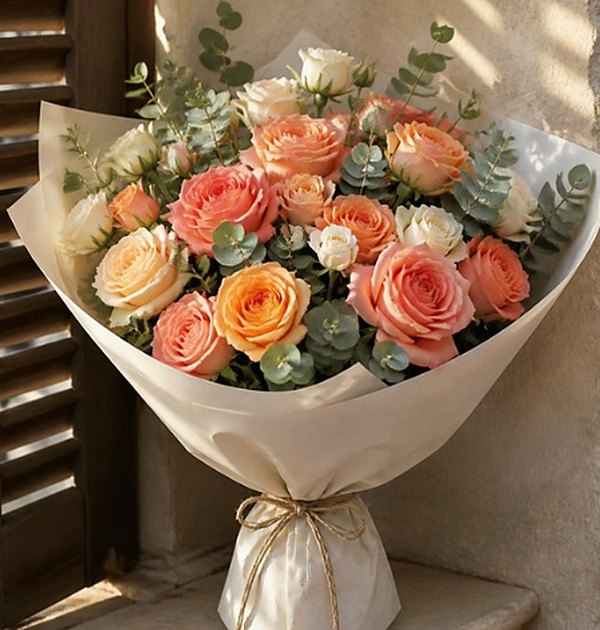
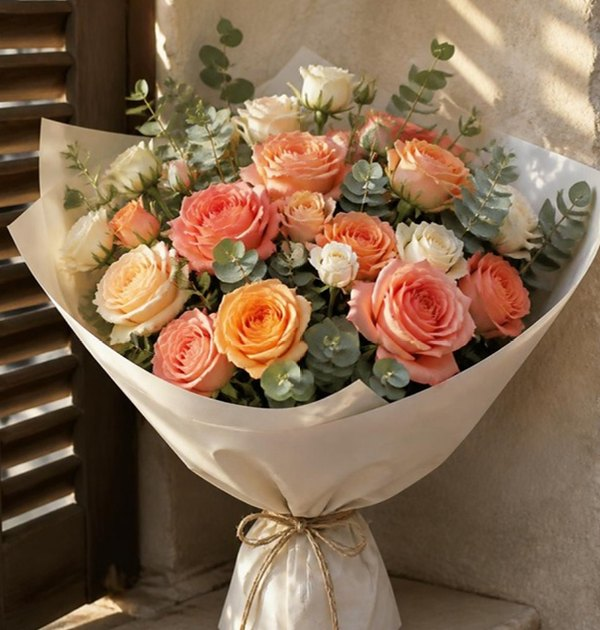
Match every bouquet description to its photo, add three bouquets, sharpen rose photos
- Rewrote flower lists and descriptions that named flowers the photos don't show
- New bouquets: red anemones, gerberas, purple and white lisianthus
- Rose photos re-captured from Canva at about twice the resolution

Claude-Session: https://claude.ai/code/session_01L5cV2KtWtTUE8kPUsoUM2V

diff --git a/assets/js/data.js b/assets/js/data.js
@@ -71,7 +71,7 @@ window.PRODUCTS = [
   {
     id: 'peach', featured: true,
     name: 'אפרסק וחמאה',
-    flowers: 'נוריות אפרסק ושמנת, ורדים לבנים וגיפסנית',
+    flowers: 'נוריות באפרסק, בשמנת ובוורוד, וגיפסנית',
     desc: 'זר עגול ורך בגווני אפרסק ושמנת, קשור ביד בחוט פשתן. מתאים כמעט לכל הזדמנות.',
     img: 'assets/img/card1.jpg',
     occasions: ['love', 'birthday', 'thanks'], colors: ['pastel', 'warm'],
@@ -80,7 +80,7 @@ window.PRODUCTS = [
   {
     id: 'shabbat', featured: true,
     name: 'לבן של שבת',
-    flowers: 'ליזיאנטוס, ורדים לבנים והורטנזיה ירוקה',
+    flowers: 'ליזיאנטוס לבן, ורדים לבנים, הורטנזיה ירוקה ומתיולה לבנה',
     desc: 'סידור לבן וירוק באגרטל זכוכית, מוכן לשולחן השבת.',
     img: 'assets/img/card2.jpg',
     occasions: ['shabbat', 'thanks'], colors: ['white'],
@@ -98,8 +98,8 @@ window.PRODUCTS = [
   {
     id: 'roses-white',
     name: 'ורדים לבנים',
-    flowers: 'ורדי גן לבנים ושנהב, אקליפטוס וירק',
-    desc: 'ורדי גן לבנים ומלאים עם אקליפטוס, עטופים בנייר שנהב. נקי, אלגנטי ומתאים כמעט לכל רגע.',
+    flowers: 'ורדי גן לבנים ושנהב, ציפורנים לבנות ואקליפטוס',
+    desc: 'ורדי גן לבנים ומלאים עם כמה ציפורנים לבנות ואקליפטוס, עטופים בנייר שנהב. נקי, אלגנטי ומתאים כמעט לכל רגע.',
     img: 'assets/img/roses-white.jpg',
     occasions: ['love', 'thanks', 'wedding', 'shabbat'], colors: ['white'],
     prices: [230, 290, 370]
@@ -123,9 +123,36 @@ window.PRODUCTS = [
     prices: [220, 280, 350]
   },
   {
+    id: 'anemones',
+    name: 'כלניות אדומות',
+    flowers: 'כלניות אדומות, אקליפטוס וירק',
+    desc: 'כלניות אדומות עם לב שחור, הפרח של החורף בארץ, עם אקליפטוס וירק עדין, עטופות בנייר שנהב.',
+    img: 'assets/img/anemones.jpg',
+    occasions: ['love', 'thanks', 'birthday'], colors: ['red'],
+    prices: [190, 240, 310]
+  },
+  {
+    id: 'gerberas',
+    name: 'גרברות שמחות',
+    flowers: 'גרברות בכתום, בצהוב, בוורוד עז ובאלמוג, וירק',
+    desc: 'זר עגול ומלא גרברות בצבעים חמים ושמחים, עם ענפי ירק. מתאים במיוחד ליום הולדת או להחלמה.',
+    img: 'assets/img/gerberas.jpg',
+    occasions: ['birthday', 'thanks'], colors: ['warm'],
+    prices: [170, 220, 290]
+  },
+  {
+    id: 'lisianthus',
+    name: 'ליזיאנטוס בסגול ולבן',
+    flowers: 'ליזיאנטוס בסגול, בלילך ובלבן, וירק',
+    desc: 'זר שופע של ליזיאנטוס בשלושה גוונים, סגול עמוק, לילך ולבן, עם ניצנים וירק. עדין ומרשים יחד.',
+    img: 'assets/img/lisianthus.jpg',
+    occasions: ['love', 'thanks', 'shabbat'], colors: ['pastel', 'white'],
+    prices: [200, 260, 330]
+  },
+  {
     id: 'morning', featured: true,
     name: 'שמש של בוקר',
-    flowers: 'נוריות כתומות, צבעונים צהובים וורדי אלמוג',
+    flowers: 'נוריות כתומות, צבעונים צהובים, ורדים בכתום ובאפרסק וזהבית',
     desc: 'זר שמח בגוונים חמים, בדיוק בשביל יום הולדת או בוקר שצריך קצת צבע.',
     img: 'assets/img/card4.jpg',
     occasions: ['birthday', 'thanks'], colors: ['warm'],
@@ -143,8 +170,8 @@ window.PRODUCTS = [
   {
     id: 'harvest', featured: true,
     name: 'בציר',
-    flowers: 'דליות בורדו, ורדים כהים ועלי גפן',
-    desc: 'זר בגווני יין עמוקים, עם עלי גפן. כמו זכרון יעקב בסוף הקיץ.',
+    flowers: 'דליות בורדו, ורדים כהים, סקביוזה ועלווה בגוון יין',
+    desc: 'זר בגווני יין עמוקים, עם עלווה כהה בגוון בורדו. כמו זכרון יעקב בעונת הבציר.',
     img: 'assets/img/card6.jpg',
     occasions: ['love', 'birthday'], colors: ['red'],
     prices: [240, 300, 370]
@@ -152,7 +179,7 @@ window.PRODUCTS = [
   {
     id: 'welcome', featured: true,
     name: 'ברוכים הבאים',
-    flowers: 'אפונה ריחנית, נוריות ורודות ושעוונית',
+    flowers: 'נוריות ורודות ולבנות, אפונה ריחנית, שעוונית ועלי כסף',
     desc: 'זר עדין בוורוד ובלבן, לברך את ההורים הטריים ואת מי שרק הגיע לעולם.',
     img: 'assets/img/card8.jpg',
     occasions: ['baby'], colors: ['pastel'],
@@ -162,7 +189,7 @@ window.PRODUCTS = [
     id: 'orchid', featured: true,
     name: 'סחלב לבן',
     flowers: 'סחלב פלנופסיס בעציץ קרמיקה',
-    desc: 'סחלב לבן עם שני ענפי פריחה בעציץ קרמיקה לבן. מחזיק שבועות ארוכים בבית או במשרד.',
+    desc: 'סחלב לבן עם ענף פריחה מתפצל, בעציץ קרמיקה לבן. מחזיק שבועות ארוכים בבית או במשרד.',
     img: 'assets/img/orchid.jpg',
     occasions: ['plants', 'thanks'], colors: ['white'],
     prices: [190, 250, 320], sizeLabels: ['עציץ אחד', 'שני עציצים', 'שלושה עציצים']
@@ -170,7 +197,7 @@ window.PRODUCTS = [
   {
     id: 'colorful', featured: true,
     name: 'פינוק צבעוני',
-    flowers: 'ורדים בוורוד ובאלמוג, ליזיאנטוס סגול ונוריות צהובות',
+    flowers: 'ורדים בוורוד עז, בכתום ובצהוב, דלפיניום כחול ולוע ארי ירוק',
     desc: 'זר עליז בהרבה צבעים, למי שאוהב שמח. מתאים ליום הולדת, להחלמה או סתם כי בא לכם.',
     img: 'assets/img/colorful.jpg',
     occasions: ['birthday', 'thanks'], colors: ['warm'],
@@ -178,10 +205,10 @@ window.PRODUCTS = [
   },
   {
     id: 'peony', pick: 1,
-    note: 'אדמוניות שנפתחות לאט, והזר משתנה ומתמלא מיום ליום.',
+    note: 'אדמוניות שמגיעות בניצן ונפתחות בבית, והזר מתמלא מיום ליום.',
     name: 'אדמוניות ורודות',
-    flowers: 'אדמוניות בוורוד רך ועלווה ירוקה',
-    desc: 'אדמוניות שופעות בוורוד רך, בעונתן. זר שנפתח לאט ומתמלא מיום ליום.',
+    flowers: 'אדמוניות ורודות בניצנים ועלווה ירוקה',
+    desc: 'צרור אדמוניות ורודות שמגיעות בניצן ונפתחות בבית לאט, ומתמלאות מיום ליום.',
     img: 'assets/img/peony.jpg',
     occasions: ['love', 'birthday', 'thanks'], colors: ['pastel'],
     prices: [260, 330, 420]
@@ -189,8 +216,8 @@ window.PRODUCTS = [
   {
     id: 'boy',
     name: 'להולדת הבן',
-    flowers: 'דלפיניום כחול, ורדים לבנים וגיפסנית',
-    desc: 'זר בכחול ובלבן לברכת ההורים על הולדת הבן, עם דלפיניום, ורדים לבנים וגיפסנית.',
+    flowers: 'דלפיניום כחול, ורדים לבנים, שעוונית לבנה ואקליפטוס',
+    desc: 'זר בכחול ובלבן לברכת ההורים על הולדת הבן, עם דלפיניום, ורדים לבנים וסרט תכלת.',
     img: 'assets/img/boy.jpg',
     occasions: ['baby'], colors: ['white'],
     prices: [180, 230, 290]
@@ -198,8 +225,8 @@ window.PRODUCTS = [
   {
     id: 'bride',
     name: 'כלה בלבן',
-    flowers: 'ורדי גן, אדמוניות ויסמין מטפס',
-    desc: 'זר כלה אוורירי בלבן ובשנהב, שגבעוליו עטופים בסרט משי. מומלץ לתאם מראש עם השוזר.',
+    flowers: 'ורדים לבנים, מתיולה לבנה, פריחה לבנה בפעמונים וירק כסוף',
+    desc: 'זר כלה גבוה ואוורירי בלבן ובירוק כסוף, שגבעוליו עטופים בסרט משי. מומלץ לתאם מראש עם השוזר.',
     img: 'assets/img/card3.jpg',
     occasions: ['wedding'], colors: ['white'],
     prices: [380, 480, 600]
@@ -208,7 +235,7 @@ window.PRODUCTS = [
     id: 'engagement', pick: 4,
     note: 'ורוד עתיק ורך, לרגעים שרוצים לזכור.',
     name: 'ורוד של אירוסין',
-    flowers: 'ורדים בגוון ורוד עתיק, אדמוניות וליזיאנטוס',
+    flowers: 'ורדי גן בוורוד עתיק ובסלמון, לימוניום כסוף ופרחים לבנים קטנים',
     desc: 'זר רומנטי בגווני ורוד עתיק, להצעת נישואין, לאירוסין או לערב שכדאי לזכור.',
     img: 'assets/img/engagement.jpg',
     occasions: ['wedding', 'love'], colors: ['pastel'],
@@ -227,8 +254,8 @@ window.PRODUCTS = [
   {
     id: 'harmony',
     name: 'הרמוניה בסגול',
-    flowers: 'ליזיאנטוס סגול, ורדים ורודים וחרציות לבנות',
-    desc: 'שילוב של סגול, ורוד ולבן בזר מלא ומאוזן.',
+    flowers: 'פרוטאה ורודה, יקינטון סגול, דלפיניום כחול, ורד ורוד וכדורי ירק',
+    desc: 'זר מלא בסגול, בכחול ובוורוד, עם פרוטאה במרכז, בקנקן קרמיקה לבן.',
     img: 'assets/img/harmony.jpg',
     occasions: ['birthday', 'thanks'], colors: ['pastel'],
     prices: [180, 230, 290]
@@ -245,10 +272,10 @@ window.PRODUCTS = [
   },
   {
     id: 'sunflower', pick: 5,
-    note: 'חמניות גדולות עם ענפי זית, זר שמכניס שמש לכל חדר.',
+    note: 'חמניות גדולות עם אקליפטוס, זר שמכניס שמש לכל חדר.',
     name: 'חמניות',
-    flowers: 'חמניות, אקליפטוס וענפי זית',
-    desc: 'חמניות גדולות עם אקליפטוס וענפי זית. זר שמחייך מכל פינה בחדר.',
+    flowers: 'חמניות, אקליפטוס וגיפסנית',
+    desc: 'חמניות גדולות עם אקליפטוס וגיפסנית, עטופות בנייר שנהב. זר שמחייך מכל פינה בחדר.',
     img: 'assets/img/sunflower.jpg',
     occasions: ['birthday', 'thanks'], colors: ['warm'],
     prices: [160, 200, 250]
@@ -265,7 +292,7 @@ window.PRODUCTS = [
   {
     id: 'condolence', featured: true, quiet: true,
     name: 'סידור תנחומים לבן',
-    flowers: 'שושנים, ורדים וחרציות לבנים',
+    flowers: 'ליליום לבן, ורדים לבנים, חרציות לבנות וירוקות ואקליפטוס',
     desc: 'סידור נמוך ושקט בלבן ובירוק כסוף, לבית האבלים. אפשר לצרף כרטיס בכתב יד.',
     img: 'assets/img/card9.jpg',
     occasions: ['condolence'], colors: ['white'],

diff --git a/index.html b/index.html
@@ -18,7 +18,7 @@
   <link rel="preload" href="assets/fonts/varela-hebrew.woff2" as="font" type="font/woff2" crossorigin>
   <link rel="preload" href="assets/img/hero-tall.jpg" as="image" media="(max-width: 899px)">
   <link rel="preload" href="assets/img/hero-wide.jpg" as="image" media="(min-width: 900px)">
-  <link rel="stylesheet" href="assets/css/styles.css?v=202610131110">
+  <link rel="stylesheet" href="assets/css/styles.css?v=202610131140">
 </head>
 <body data-page="index">
 <script>try{if(localStorage.getItem('pv-promo-closed'))document.documentElement.classList.add('promo-closed')}catch(e){}</script>
@@ -677,8 +677,8 @@
     </div>
   </div>
 </div>
-<script src="assets/js/data.js?v=202610131110"></script>
-<script src="assets/js/towns-il.js?v=202610131110"></script>
-<script src="assets/js/main.js?v=202610131110"></script>
+<script src="assets/js/data.js?v=202610131140"></script>
+<script src="assets/js/towns-il.js?v=202610131140"></script>
+<script src="assets/js/main.js?v=202610131140"></script>
 </body>
 </html>

diff --git a/accessibility.html b/accessibility.html
@@ -16,7 +16,7 @@
   <link rel="icon" href="assets/favicon.svg" type="image/svg+xml">
   <link rel="preload" href="assets/fonts/assistant-hebrew.woff2" as="font" type="font/woff2" crossorigin>
   <link rel="preload" href="assets/fonts/varela-hebrew.woff2" as="font" type="font/woff2" crossorigin>
-  <link rel="stylesheet" href="assets/css/styles.css?v=202610131110">
+  <link rel="stylesheet" href="assets/css/styles.css?v=202610131140">
 </head>
 <body data-page="accessibility">
 <script>try{if(localStorage.getItem('pv-promo-closed'))document.documentElement.classList.add('promo-closed')}catch(e){}</script>
@@ -438,8 +438,8 @@
     </div>
   </div>
 </div>
-<script src="assets/js/data.js?v=202610131110"></script>
-<script src="assets/js/towns-il.js?v=202610131110"></script>
-<script src="assets/js/main.js?v=202610131110"></script>
+<script src="assets/js/data.js?v=202610131140"></script>
+<script src="assets/js/towns-il.js?v=202610131140"></script>
+<script src="assets/js/main.js?v=202610131140"></script>
 </body>
 </html>

diff --git a/catalog.html b/catalog.html
@@ -16,7 +16,7 @@
   <link rel="icon" href="assets/favicon.svg" type="image/svg+xml">
   <link rel="preload" href="assets/fonts/assistant-hebrew.woff2" as="font" type="font/woff2" crossorigin>
   <link rel="preload" href="assets/fonts/varela-hebrew.woff2" as="font" type="font/woff2" crossorigin>
-  <link rel="stylesheet" href="assets/css/styles.css?v=202610131110">
+  <link rel="stylesheet" href="assets/css/styles.css?v=202610131140">
 </head>
 <body data-page="catalog">
 <script>try{if(localStorage.getItem('pv-promo-closed'))document.documentElement.classList.add('promo-closed')}catch(e){}</script>
@@ -471,8 +471,8 @@
     </div>
   </div>
 </div>
-<script src="assets/js/data.js?v=202610131110"></script>
-<script src="assets/js/towns-il.js?v=202610131110"></script>
-<script src="assets/js/main.js?v=202610131110"></script>
+<script src="assets/js/data.js?v=202610131140"></script>
+<script src="assets/js/towns-il.js?v=202610131140"></script>
+<script src="assets/js/main.js?v=202610131140"></script>
 </body>
 </html>
